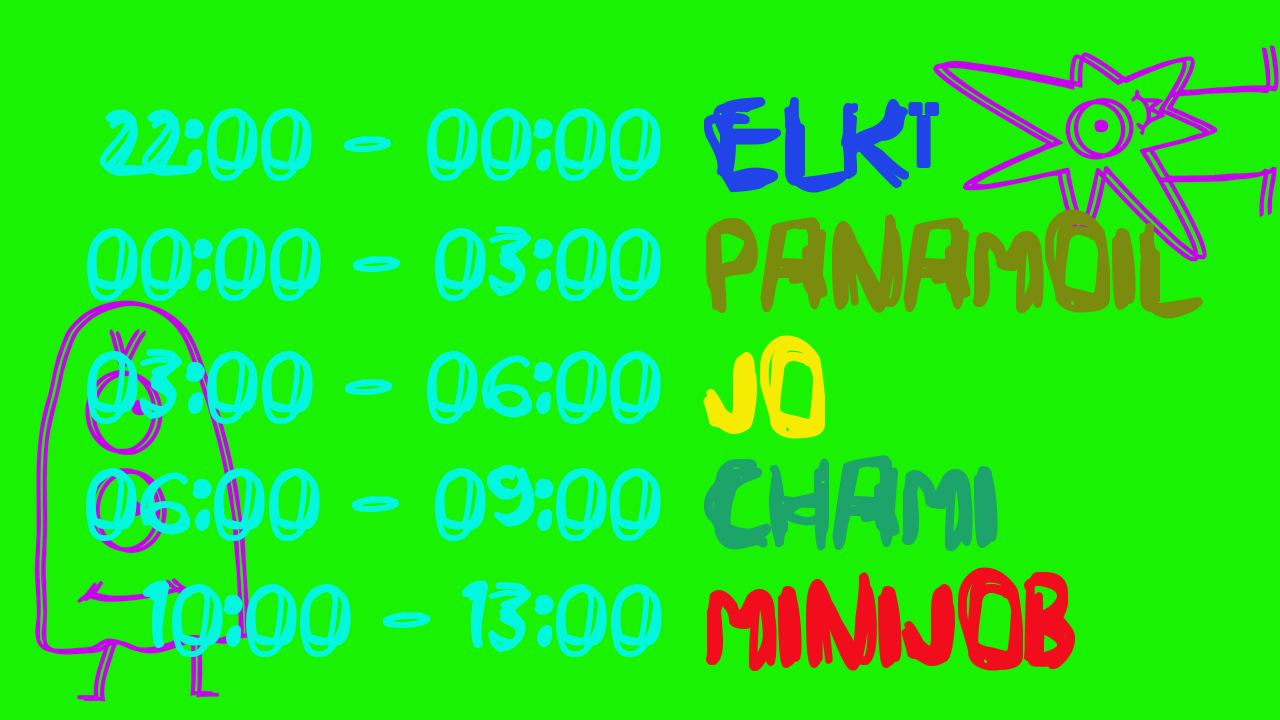
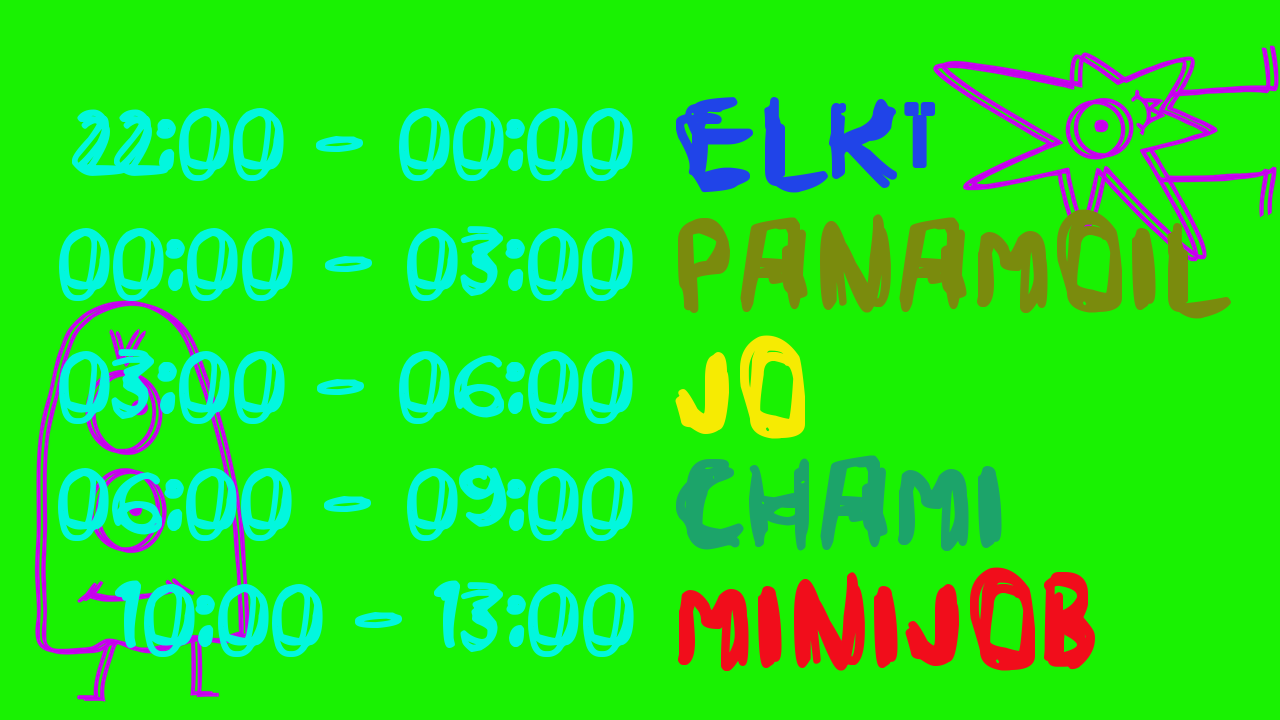
feat: add letter-spacing to DJ names so faux-bold reads as bold
The bold names looked tight/blobby because the thickened strokes of adjacent
letters merged. Add proportional tracking (dj_track) between characters, folded
into the fit test so spaced+bold names still fit the width. Draw per-glyph now
(drops the old runs() batching) to apply tracking and per-char font fallback.

Changed region(s): [[0.0312, 0.4583, 0.875, 0.9472], [0.0312, 0.275, 0.9688, 0.4583], [0.0312, 0.1222, 0.75, 0.275]]

diff --git a/mnj-lineup/tools/gen_frames.py b/mnj-lineup/tools/gen_frames.py
@@ -113,48 +113,41 @@ def load_fallback(size):
     return ImageFont.truetype(FALLBACK_PATH, round(size * FALLBACK_SCALE))
 
 
-def runs(txt):
-    """Split text into (string, uses_fallback) runs by glyph availability."""
-    out = []
-    for ch in txt:
-        fb = not has_glyph(ch)
-        if out and out[-1][1] == fb:
-            out[-1] = (out[-1][0] + ch, fb)
-        else:
-            out.append((ch, fb))
-    return out
-
-
-def measure(draw, txt, scribble, fallback):
+def measure(draw, txt, scribble, fallback, track=0):
     """Width and baseline-relative top/bottom for mixed-font text.
 
     top/bot are measured from the shared baseline (anchor 'ls'), so glyphs from
     different fonts line up on one baseline instead of by their bbox tops.
+    track adds px between characters (so faux-bold letters don't run together).
     """
     w = 0
     top = 0
     bot = 0
-    for s, fb in runs(txt):
-        font = fallback if fb else scribble
-        b = draw.textbbox((0, 0), s, font=font, anchor="ls")
-        w += draw.textlength(s, font=font)
+    n = 0
+    for ch in txt:
+        font = fallback if not has_glyph(ch) else scribble
+        b = draw.textbbox((0, 0), ch, font=font, anchor="ls")
+        w += draw.textlength(ch, font=font)
         top = min(top, b[1])
         bot = max(bot, b[3])
+        n += 1
+    w += track * max(0, n - 1)
     return int(w), top, bot
 
 
-def draw_mixed(draw, xy, txt, scribble, fallback, fill, bold=0):
-    """Draw left-to-right switching fonts per run, all on one baseline.
+def draw_mixed(draw, xy, txt, scribble, fallback, fill, bold=0, track=0):
+    """Draw character-by-character on one baseline, switching fonts per glyph.
 
     xy is the left end of the baseline (anchor 'ls'). bold > 0 thickens the
-    strokes (faux-bold via stroke_width) since the font has no bold weight.
+    strokes (faux-bold) and track adds px between characters so the thicker
+    strokes don't merge into an unreadable blob.
     """
     x, y = xy
-    for s, fb in runs(txt):
-        font = fallback if fb else scribble
-        draw.text((x, y), s, font=font, fill=fill, anchor="ls",
+    for ch in txt:
+        font = fallback if not has_glyph(ch) else scribble
+        draw.text((x, y), ch, font=font, fill=fill, anchor="ls",
                   stroke_width=bold, stroke_fill=fill)
-        x += draw.textlength(s, font=font)
+        x += draw.textlength(ch, font=font) + track
 
 
 def render_frame(cfg, m1, m2, day, frame_idx):
@@ -181,15 +174,18 @@ def render_frame(cfg, m1, m2, day, frame_idx):
     LEFT_GUARD = inset + pad
     avail_w = W - 2 * (inset + pad)
 
-    # Shrink fonts until the widest row fits that available width.
+    # Shrink fonts until the widest row fits that available width. Names get
+    # letter-spacing (dj_track) so the faux-bold strokes don't merge; that extra
+    # width has to be part of the fit test or bold names would overflow.
     time_size, dj_size = round(TIME_FRAC * H), round(DJ_FRAC * H)
     while True:
         time_font = load_font(time_size)
         time_fb = load_fallback(time_size)
         dj_font = load_font(dj_size)
         dj_fb = load_fallback(dj_size)
+        dj_track = round(dj_size * 0.14)
         time_w_max = max(measure(draw, t, time_font, time_fb)[0] for t, _ in slots)
-        dj_w_max = max(measure(draw, d, dj_font, dj_fb)[0] for _, d in slots)
+        dj_w_max = max(measure(draw, d, dj_font, dj_fb, dj_track)[0] for _, d in slots)
         block_w = time_w_max + COL_GAP + dj_w_max
         if block_w <= avail_w or dj_size <= min_dj:
             break
@@ -203,7 +199,7 @@ def render_frame(cfg, m1, m2, day, frame_idx):
     row_heights = []
     for t, d in slots:
         _, tt, tb = measure(draw, t, time_font, time_fb)
-        _, dt, db = measure(draw, d, dj_font, dj_fb)
+        _, dt, db = measure(draw, d, dj_font, dj_fb, dj_track)
         row_heights.append(max(tb - tt, db - dt))
 
     total_h = sum(row_heights) + ROW_GAP * (len(slots) - 1)
@@ -234,10 +230,10 @@ def render_frame(cfg, m1, m2, day, frame_idx):
         color = DJ_COLORS[DJ_ORDER[i % len(DJ_ORDER)]]
         if i in off:
             color = dim(color)
-        dw, dt, dbot = measure(draw, d, dj_font, dj_fb)
+        dw, dt, dbot = measure(draw, d, dj_font, dj_fb, dj_track)
         d_base = y + (rh - (dbot - dt)) // 2 - dt
         draw_mixed(draw, (dj_left_x, d_base),
-                   d, dj_font, dj_fb, color, bold=dj_bold)
+                   d, dj_font, dj_fb, color, bold=dj_bold, track=dj_track)
         y += rh + ROW_GAP
 
     return img
